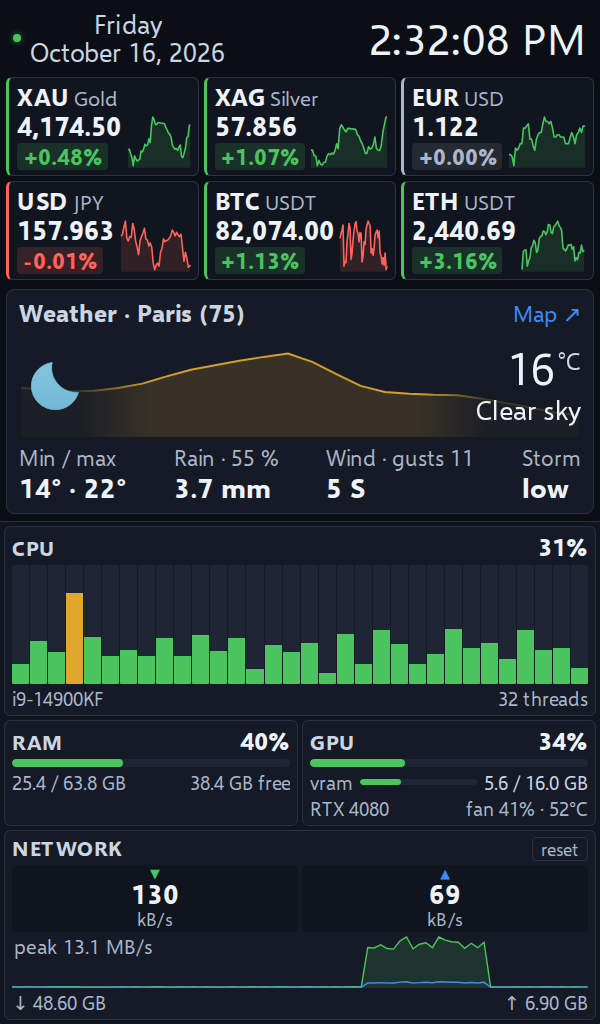
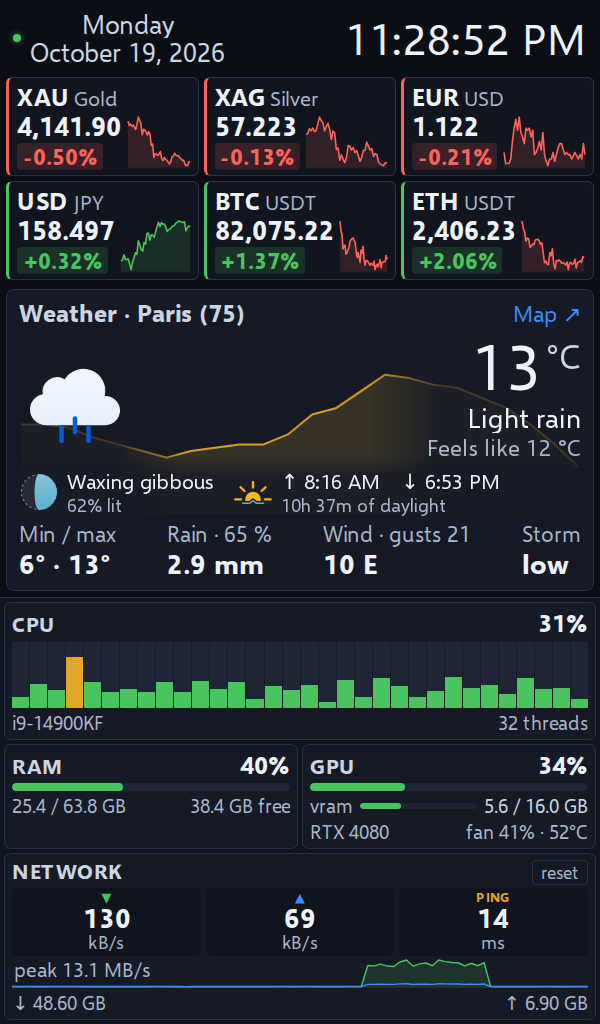
README: Moon and Sun, ping, any window size; refreshed screenshots

diff --git a/README.md b/README.md
@@ -10,7 +10,7 @@
 </p>
 
 <p align="center">
-  <img src="docs/screenshots/dashboard-dark.png" width="720" alt="Klakboard on a 960 × 640 screen: metals, currencies and crypto badges with 12-hour sparklines, weather card, CPU cores, RAM, GPU and network panels">
+  <img src="docs/screenshots/dashboard-dark.png" width="720" alt="Klakboard on a 960 × 640 screen: metals, currencies and crypto badges with 12-hour sparklines, weather card with the Moon and the Sun, CPU cores, RAM, GPU and network panels with the ping">
 </p>
 
 ---
@@ -40,10 +40,12 @@ after three missed cycles, and the status dot turns red (details in its tooltip)
 
 **Weather** — current conditions and today's forecast for the city you pick:
 temperature, feels-like, min/max, rain, wind and gusts, thunderstorm risk
-(CAPE). Behind the icon and the temperature, a faded curve shows the next
-24 hours; a click on it opens them hour by hour (temperature and feels-like,
-rain chance and amount, wind and gusts, sunrise and sunset). The rest of the
-card opens the Windy map.
+(CAPE). Next to the icon: the Moon's phase and how much of it is lit
+(computed on your computer, mirrored south of the equator), sunrise and sunset
+in the city's time, and the day length. Behind them, a faded curve shows the
+next 24 hours; a click on it opens them hour by hour (temperature and
+feels-like, rain chance and amount, wind and gusts). The rest of the card opens
+the Windy map.
 
 **System** — refreshed every second, independently of the markets.
 
@@ -51,15 +53,16 @@ card opens the Windy map.
 - RAM used / total / available
 - GPU: load, memory, fan and temperature where available (NVIDIA everywhere,
   AMD and Intel on Windows, AMD on Linux, Apple silicon and AMD on macOS)
-- Network: live rates, 90-second history, totals (reset in two clicks)
+- Network: live rates, ping to [Quad9](https://quad9.net) (9.9.9.9), 90-second
+  history, totals (reset in two clicks)
 
 A click on a system card opens its **history** over 1 minute, 10 minutes or
 1 hour, with values under the pointer: CPU total and one curve per core, RAM,
-GPU load, memory and temperature, network rates with average and peak.
+GPU load, memory and temperature, network rates and ping with average and peak.
 
 <p align="center">
   <img src="docs/screenshots/detail-cpu.png" width="360" alt="CPU history: total load and one curve per core, with the values at the pointer">
-  <img src="docs/screenshots/detail-net-fr.png" width="360" alt="Network history in French: download and upload rates, average and peak">
+  <img src="docs/screenshots/detail-net-fr.png" width="360" alt="Network history in French: download and upload rates, ping, average and peak">
 </p>
 
 **Comfort** — English and French (following the system, or picked in the
@@ -85,11 +88,16 @@ small 3.5 to 8-inch panels, bar screens, a spare monitor, a tablet used as a
 second screen. The layout follows the shape of the screen:
 
 - **landscape** panels close to 3:2 or 4:3 (960 × 640, 1024 × 600, 800 × 480…);
-- **bar** screens, 2.4:1 and wider (1920 × 480, 1920 × 440, 2560 × 720, 1280 × 400…);
+- **bar** screens, 2.4:1 and wider from 1000 px wide (1920 × 480, 1920 × 440,
+  2560 × 720, 1280 × 400…);
 - **portrait** screens, 4:5 and narrower (480 × 800, 600 × 1024, 480 × 1920…);
 - **large** screens, from about 1500 × 850: the system cards show their history
   curves, and the weather card the temperature over the next 24 hours and the
   next 12 hours one by one.
+
+Any window size in between works too, down to 480 × 320: the date goes on one
+line or two, the Moon and the Sun beside the weather icon or below it, and when
+room is still short the dashboard shrinks as a whole rather than cutting a text.
 
 <p align="center">
   <img src="docs/screenshots/bar-1920x480.png" width="720" alt="Bar layout on a 1920 × 480 screen: badges, weather and system side by side">
@@ -174,6 +182,7 @@ All free, **no API key**. Requests go out from the main process, with a
 | Currencies | Yahoo Finance | Yahoo Finance |
 | Crypto | Binance public market data (`data-api.binance.vision`) | Binance |
 | Weather | [Open-Meteo](https://open-meteo.com) | — |
+| Ping | ICMP echo to Quad9 (9.9.9.9) with the system's `ping`, once a second | kept 1 hour, like the other metrics |
 
 - Yahoo quotes metals as **futures** (`GC=F` trades about 1 % above spot). The
   price shown comes from gold-api, and the chart is scaled by
@@ -181,8 +190,8 @@ All free, **no API key**. Requests go out from the main process, with a
 - Yahoo Finance has no official public API: it may change or throttle without
   notice. Klakboard then keeps showing the last known prices.
 
-**Privacy** — no account, no telemetry. The only requests are to the sources
-above and to the GitHub API for updates. Settings stay on your computer, in
+**Privacy** — no account, no telemetry. The only network traffic is to the
+sources above (the ping included) and to the GitHub API for updates. Settings stay on your computer, in
 `dashboard.json`: `%APPDATA%\Klakboard` on Windows, `~/Library/Application
 Support/Klakboard` on macOS, `~/.config/Klakboard` on Linux.
 
@@ -220,20 +229,22 @@ second would cost too much (PowerShell takes ~0.8 s to start):
 | GPU, NVIDIA | `nvidia-smi -lms`, one process | — | `nvidia-smi -lms`, one process |
 | GPU, others | performance counters (CIM), one PowerShell process | `ioreg` (IOAccelerator) | amdgpu sysfs |
 | Network | `Get-NetAdapterStatistics`, one PowerShell process | `netstat -ibn` | `/proc/net/dev` |
+| Ping | `ping.exe`, one process (any Windows language) | `ping`, one process | `ping`, one process |
 
 ```
 main.js       main process: window, screens, tray, IPC, settings, updates
 display.js    picks the screen to cover
 markets.js    market sources and chart normalisation
 weather.js    Open-Meteo weather and icon choice
+astro.js      Moon phase, computed from the date (Meeus), shared by page and tests
 system.js     CPU / RAM / GPU / network metrics, sampled every second
 history.js    metrics history: 10 min at 1 s, 1 h at 10 s (main process)
-platform/     metric sources per system (win32, darwin, linux, nvidia)
+platform/     metric sources per system (win32, darwin, linux, nvidia, ping)
 autostart.js  start at login on Linux (XDG autostart entry)
 updates.js    finds and downloads releases
 updater.js    swaps the app archive after exit (runs outside the app)
 preload.js    IPC bridge (context isolation on)
-renderer.js   rendering: badges, charts, history views, settings
+renderer.js   rendering: badges, charts, history views, settings, fitting the window
 charts.js     time-series charts on canvas
 i18n.js       interface strings (English, French), shared by main and page
 style.css     themes, type scale, landscape / bar / portrait layouts

diff --git a/docs/AUDIT-2026-10-16.md b/docs/AUDIT-2026-10-16.md
@@ -37,6 +37,20 @@ réticule et valeurs au survol, courbes en `<canvas>` (`charts.js`), mode *grand
 les cartes, température sur 24 h et prévisions heure par heure), purge des cumuls en deux clics (B6).
 Toutes les étapes du § 9 sont faites.
 
+**Suivi (19/10/2026)** — ajouts : à côté de l'icône météo, phase de la Lune (calculée sur place
+d'après Meeus, comparée aux 50 instants de phase 2026 publiés par l'USNO : 0,075° d'écart au plus,
+soit ~9 min), lever et coucher du soleil à l'heure de la ville, durée du jour (Open-Meteo) ; ping
+vers Quad9 (9.9.9.9) par la commande `ping` du système, lue sans dépendre de la langue de Windows,
+avec sa courbe dans la vue réseau ; date sur une ligne quand la place le permet. Redimensionnement :
+un balayage automatique (324 tailles de fenêtre, en anglais et en français, à la recherche de
+chevauchements, de textes coupés et d'éléments rognés) trouvait des défauts à 186 tailles sur 324
+avant ces changements ; il n'en trouve plus aucun à partir de 480 × 320, désormais la taille minimale
+de la fenêtre (multipliée par le zoom). Moyens : cartes jamais plus petites que leur contenu, courbes
+sans taille propre (`contain: size`), mode barre à partir de 1000 px de large, bloc lune et soleil
+placé selon la place, et en dernier recours réduction de toute la page (`zoom` CSS, plancher 10 px).
+**À vérifier** : le ping sur un vrai Windows non anglais et sur un vrai Mac, le rendu dans Electron
+(captures faites sous Chromium 153 avec la police Selawik).
+
 ## 1. Verdict
 
 **Oui, Klakboard est un bon candidat au public, mais pas en l'état pour la promotion annoncée.**
